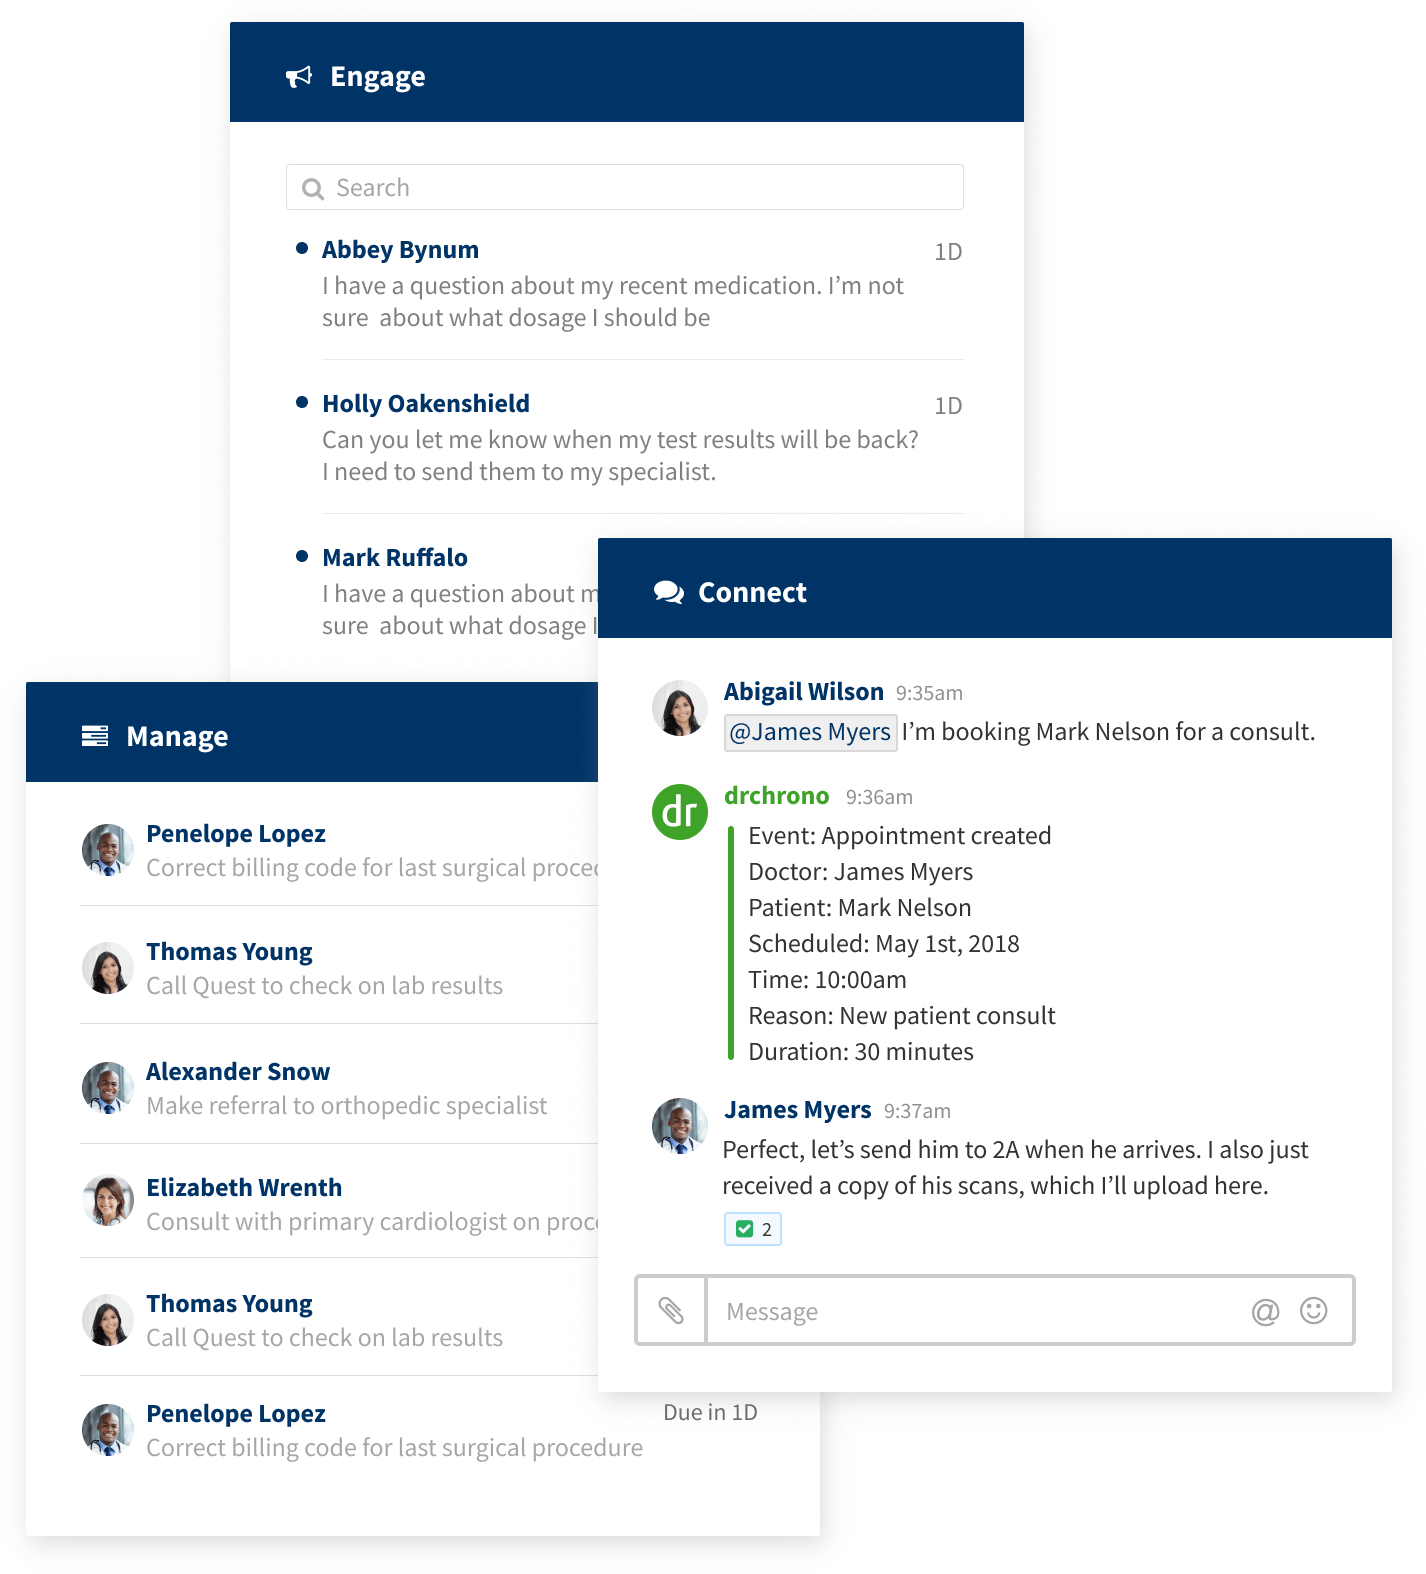
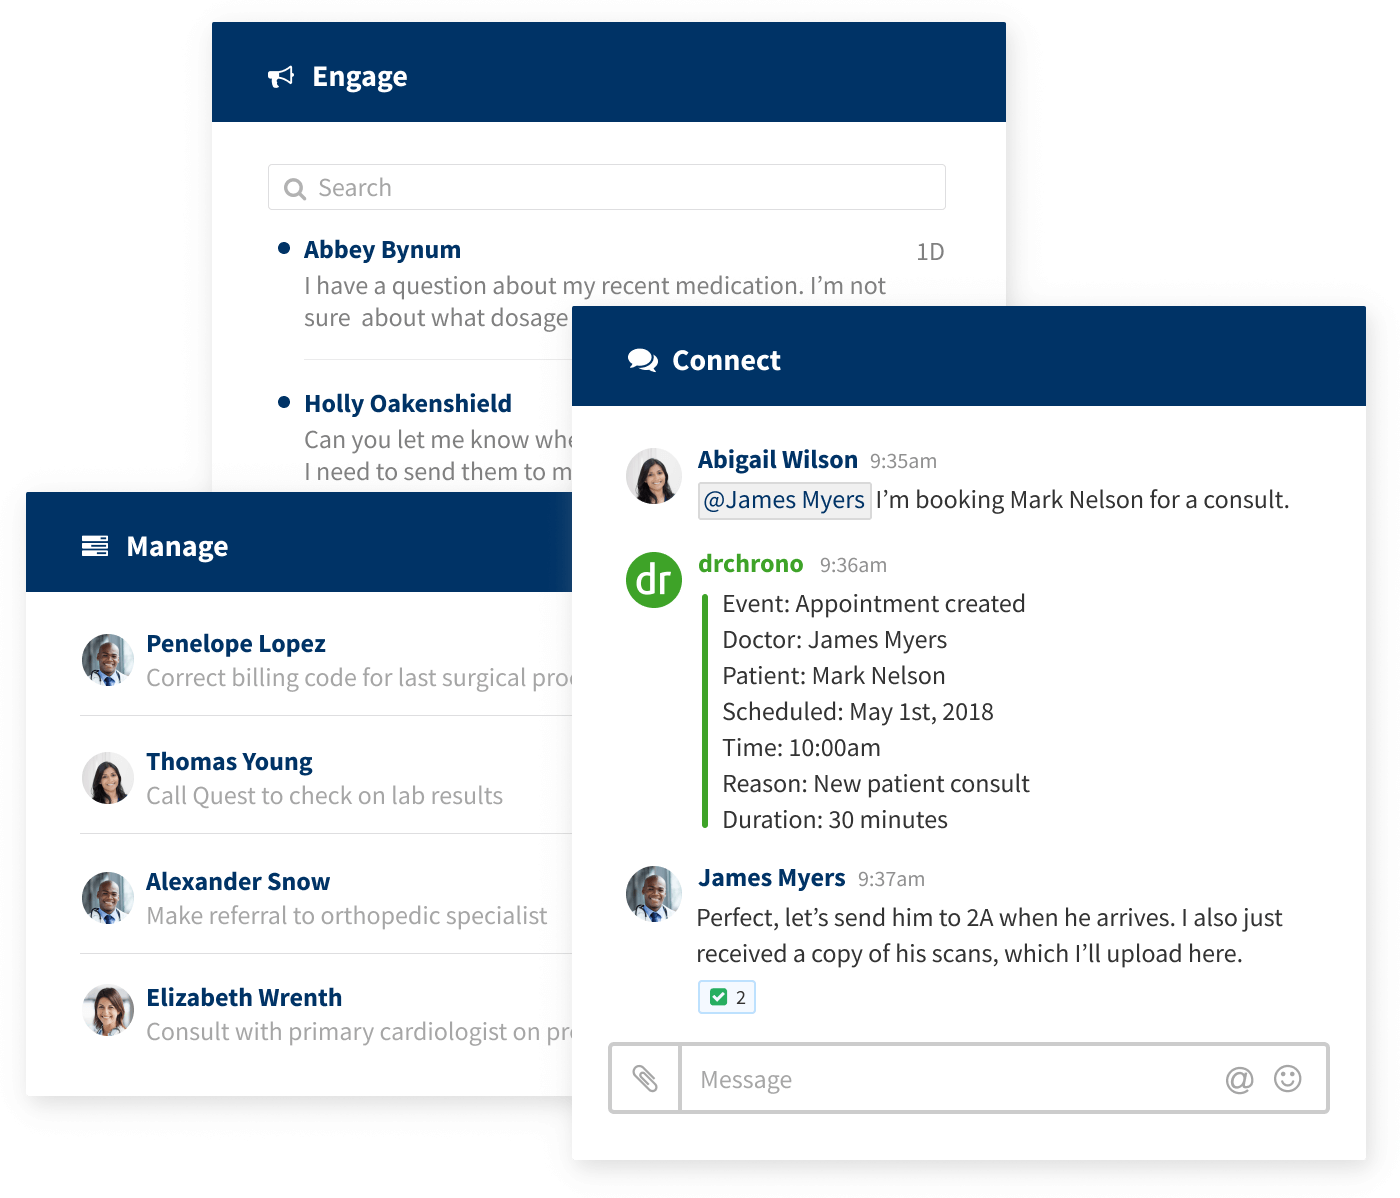
Various fixes and changes

Changed region(s): [[0.0, 0.0, 0.9829, 0.9574]]

diff --git a/apps/stitch_connect/lib/stitch_connect/web/static/stylesheets/website.scss b/apps/stitch_connect/lib/stitch_connect/web/static/stylesheets/website.scss
@@ -12,14 +12,9 @@
     width: 100%;
     margin: 0 auto;
     padding: 0 6vw;
-    transition: padding .3s;
     
-    @media (min-width: 48rem) {
+    @media screen and (min-width: 48rem) {
       padding: 0 5vw;
-    }
-
-    @media (min-width: 800px) and (max-width: 1000px) {
-      padding: 0 12vw;
     }
 
     @media (min-width: 1280px) {
@@ -35,6 +30,7 @@
   //----------------- COMPONENTS -----------------
   .flex-box {
     display: flex;
+    align-items: center;
     flex-direction: column;
     -ms-flex-direction: column;
     margin-right: -15px;
@@ -46,7 +42,23 @@
       padding-left: 15px;
       padding-right: 15px;
     }
+    
+    @media(min-width: 992px) {
+      flex-direction: row; 
+      -ms-flex-direction: row;
+
+      .flex-item {
+        flex: 1;
+      }
+    }
   }
+
+  // .flex-box {
+  //   align-items: center;
+  //   @media (max-width: 992px) {
+  //     flex-direction: column;
+  //   }
+  // }
 
   .btn {
     font-size: 15px;
@@ -98,24 +110,13 @@
 
   h4 { font-size: 17px; }
 
-  @media(min-width: 768px) {
-    .flex-box { 
-      flex-direction: row; 
-      -ms-flex-direction: row;
-
-      .flex-item {
-        flex: 1;
-      }
-    }
-  }
-
   hr.section-line {
     width: 140px;
     border-width: 4px;
     border-color: $brand-primary;
-    margin: 40px 0 60px;
+    margin: 40px 0;
     @media (min-width: 768px) {
-      margin: 40px auto 60px;
+      margin: 40px auto;
     }
   }
 
@@ -167,7 +168,7 @@
       width: 100%;
       max-width: 470px;
       margin: 0 auto;
-      @media (min-width: 993px) {
+      @media (min-width: 992px) {
         max-width: 85%;
         margin-left: auto;
         margin-right: 0;   
@@ -176,9 +177,9 @@
 
     .flex-box {
       align-items: center;
-      @media (max-width: 992px) {
-        flex-direction: column;
-      }
+      // @media (max-width: 992px) {
+      //   flex-direction: column;
+      // }
     }
 
     .product-heading {
@@ -241,8 +242,10 @@
 
   //----------------- HOMEPAGE -----------------
   .our-customers {
-    // background: #f0f1f3;
-    padding: 80px 0;
+    padding: 0 0 80px;
+    @media (min-width: 768px) {
+      padding: 80px 0;
+    }
 
     h2, h3 {
       @media (min-width: 768px) {
@@ -285,7 +288,10 @@
   }
 
   .stitch-products {
-    padding: 80px 0;
+    padding: 20px 0 80px;
+    @media (min-width: 768px) {
+      padding: 80px 0;
+    }
 
     h2, h3 {
       @media (min-width: 768px) {
@@ -306,10 +312,10 @@
       }
 
       .flex-item {
-        max-width: 310px;
         padding: 0;
         margin-bottom: 25px;
         @media(min-width: 769px) {
+          max-width: 310px;
           margin: 0 15px;
 
           &:first-of-type {
@@ -479,14 +485,14 @@
       padding: 16px 30px;
     }
 
-    .flex-box {
-      .flex-item {
-        flex: 1 0 auto;
-        @media (min-width: 992px) {
-          flex: 1;
-        }
-      }
-    }
+    // .flex-box {
+    //   .flex-item {
+    //     flex: 1 0 auto;
+    //     @media (min-width: 992px) {
+    //       flex: 1;
+    //     }
+    //   }
+    // }
 
     .subheader {
       .product-heading {
@@ -530,7 +536,7 @@
       &.alt {
         background: #f0f1f3;
 
-        @media (min-width: 993px) {
+        @media (min-width: 992px) {
           .flex-box {
             flex-direction: row-reverse;
             -ms-flex-direction: row-reverse;
@@ -1113,6 +1119,22 @@
     box-shadow: 0 -1px 0 #eaeaea;
     padding: 60px 0;
 
+    // .flex-box {
+    //   flex-direction: column;
+      
+    //   .flex-item {
+    //     flex: 1 0 auto;
+    //   }
+
+    //   @media (min-width: 768px) {
+    //     flex-direction: row;
+
+    //     .flex-item {
+    //       flex: 1;
+    //     }
+    //   }
+    // }
+
     h3 {
       font-size: 24px;
       font-weight: 900;
@@ -1124,12 +1146,13 @@
       font-size: 18px;
       margin: 0;
     }
-  }
 
-  .flex-box {
-    align-items: center;
-    @media (max-width: 992px) {
-      flex-direction: column;
+    .create-team-form {
+      margin: 25px 0 0; 
+
+      @media (min-width: 992px) {
+        margin: 0;
+      }
     }
   }
 }
